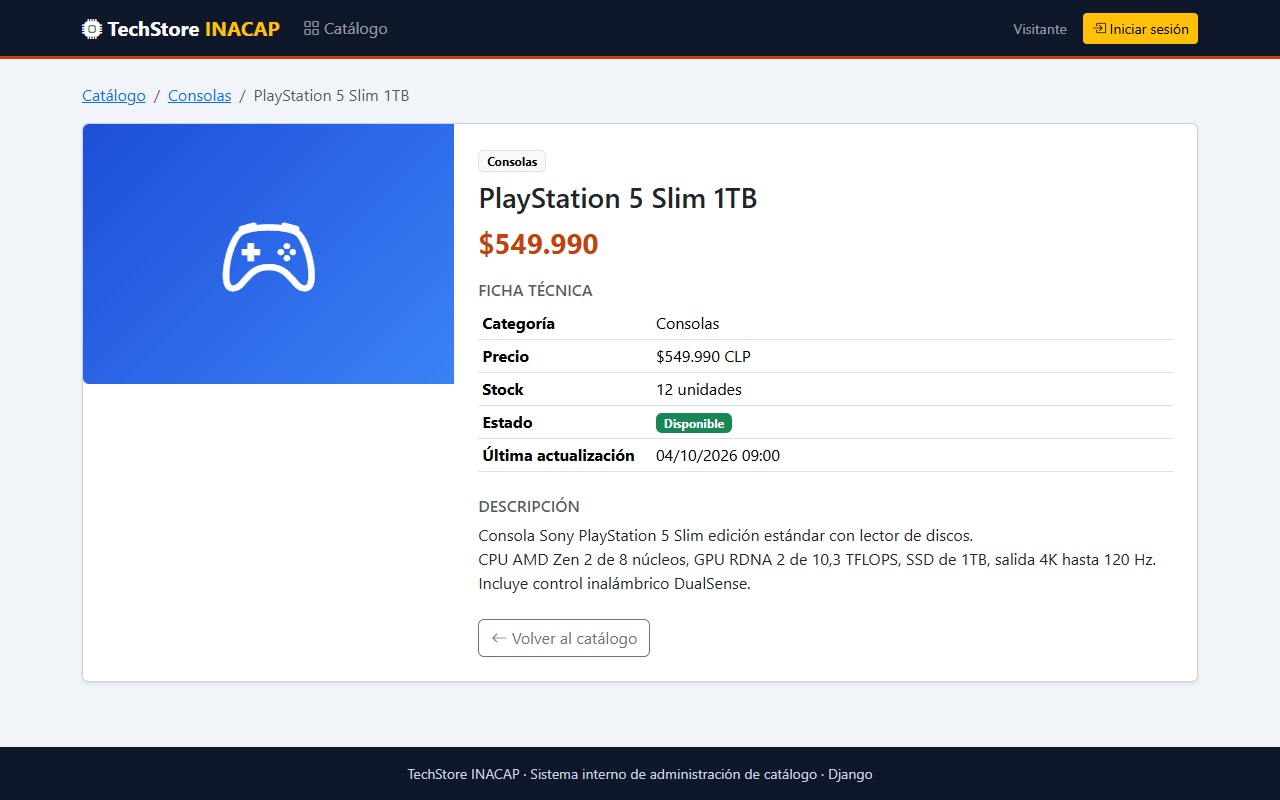
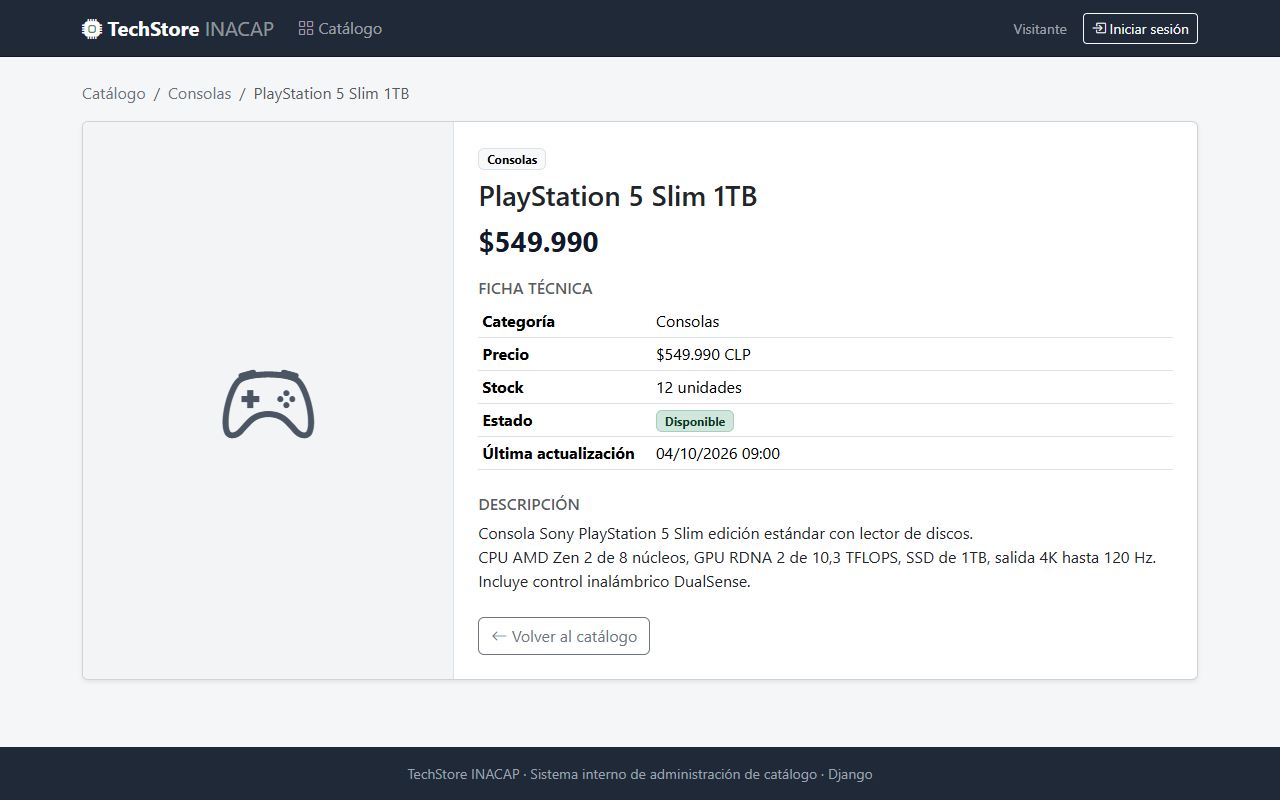
Cambiar la interfaz a una paleta de colores sobria
- Grises y gris carbon en navbar, tarjetas, botones y formularios
- Sin degradados por categoria; iconos sobre fondo gris claro
- Badges de estado y botones de eliminar en tonos suaves
- Capturas de la documentacion actualizadas

diff --git a/catalogo/templates/catalogo/lista.html b/catalogo/templates/catalogo/lista.html
@@ -10,7 +10,7 @@
         <p class="text-muted mb-0">Consolas, computadores, componentes y periféricos</p>
     </div>
     {% if user.is_authenticated %}
-        <a href="{% url 'catalogo:crear' %}" class="btn btn-primary">
+        <a href="{% url 'catalogo:crear' %}" class="btn btn-dark">
             <i class="bi bi-plus-lg"></i> Nuevo producto
         </a>
     {% endif %}
@@ -29,7 +29,7 @@
         </select>
     </div>
     <div class="col-md-2 d-grid">
-        <button type="submit" class="btn btn-outline-primary"><i class="bi bi-search"></i> Filtrar</button>
+        <button type="submit" class="btn btn-outline-secondary"><i class="bi bi-search"></i> Filtrar</button>
     </div>
 </form>
 
@@ -37,32 +37,32 @@
     {% for producto in productos %}
         <div class="col">
             <div class="card h-100 card-producto shadow-sm">
-                <div class="card-icono cat-{{ producto.categoria|lower }}">
+                <div class="card-icono">
                     <i class="bi {{ producto.icono }}"></i>
                 </div>
                 <div class="card-body d-flex flex-column">
                     <div class="d-flex justify-content-between align-items-start mb-2 gap-2">
                         <span class="badge text-bg-light border">{{ producto.get_categoria_display }}</span>
                         {% if producto.estado %}
-                            <span class="badge text-bg-success">Disponible</span>
+                            <span class="badge bg-success-subtle text-success-emphasis border border-success-subtle">Disponible</span>
                         {% else %}
-                            <span class="badge text-bg-danger">Agotado</span>
+                            <span class="badge bg-danger-subtle text-danger-emphasis border border-danger-subtle">Agotado</span>
                         {% endif %}
                     </div>
                     <h2 class="h6 card-title">{{ producto.nombre }}</h2>
                     <p class="card-text small text-muted flex-grow-1">{{ producto.descripcion|truncatechars:90 }}</p>
                     <p class="precio mb-1">${{ producto.precio|clp }}</p>
                     <p class="small text-muted mb-3">Stock: {{ producto.stock }} unidad{{ producto.stock|pluralize:"es" }}</p>
-                    <a href="{{ producto.get_absolute_url }}" class="btn btn-outline-primary btn-sm">
+                    <a href="{{ producto.get_absolute_url }}" class="btn btn-outline-dark btn-sm">
                         <i class="bi bi-info-circle"></i> Ver detalle
                     </a>
                 </div>
                 {% if user.is_authenticated %}
                     <div class="card-footer bg-transparent d-flex gap-2">
-                        <a href="{% url 'catalogo:editar' producto.pk %}" class="btn btn-sm btn-warning flex-fill">
+                        <a href="{% url 'catalogo:editar' producto.pk %}" class="btn btn-sm btn-outline-secondary flex-fill">
                             <i class="bi bi-pencil"></i> Editar
                         </a>
-                        <a href="{% url 'catalogo:eliminar' producto.pk %}" class="btn btn-sm btn-danger flex-fill">
+                        <a href="{% url 'catalogo:eliminar' producto.pk %}" class="btn btn-sm btn-outline-danger flex-fill">
                             <i class="bi bi-trash"></i> Eliminar
                         </a>
                     </div>

diff --git a/catalogo/static/catalogo/css/estilos.css b/catalogo/static/catalogo/css/estilos.css
@@ -1,32 +1,35 @@
-/* Estilos propios de TechStore INACAP */
+/* Estilos propios de TechStore INACAP – paleta sobria en grises */
 
 :root {
-    --ts-oscuro: #0f172a;
-    --ts-acento: #c2410c;
+    --ts-oscuro: #1f2937;   /* gris carbón: navbar, pie y botones principales */
+    --ts-texto: #111827;
+    --ts-suave: #6b7280;
+    --ts-fondo: #f5f6f8;
+    --ts-panel: #f3f4f6;
 }
 
 body {
-    background-color: #f1f5f9;
+    background-color: var(--ts-fondo);
+    color: var(--ts-texto);
 }
 
 .navbar-techstore {
     background-color: var(--ts-oscuro);
-    border-bottom: 3px solid var(--ts-acento);
+    border-bottom: 1px solid #111827;
 }
 
 .footer-techstore {
     background-color: var(--ts-oscuro);
-    color: #cbd5e1;
+    color: #9ca3af;
 }
 
 /* Tarjetas de productos */
 .card-producto {
-    transition: transform .15s ease, box-shadow .15s ease;
+    transition: box-shadow .15s ease;
 }
 
 .card-producto:hover {
-    transform: translateY(-3px);
-    box-shadow: 0 .5rem 1rem rgba(15, 23, 42, .15) !important;
+    box-shadow: 0 .25rem .75rem rgba(17, 24, 39, .12) !important;
 }
 
 .card-icono {
@@ -34,39 +37,57 @@ body {
     align-items: center;
     justify-content: center;
     height: 140px;
-    font-size: 3.5rem;
-    color: #fff;
+    font-size: 3.25rem;
+    color: #4b5563;
+    background-color: var(--ts-panel);
 }
 
 .card-producto .card-icono {
+    border-bottom: 1px solid var(--bs-border-color);
     border-radius: var(--bs-card-inner-border-radius) var(--bs-card-inner-border-radius) 0 0;
 }
 
 .card-icono-grande {
+    height: auto;
     min-height: 260px;
     font-size: 6rem;
+    border-right: 1px solid var(--bs-border-color);
 }
-
-/* Color de fondo según categoría */
-.cat-consolas    { background: linear-gradient(135deg, #1d4ed8, #3b82f6); }
-.cat-notebooks   { background: linear-gradient(135deg, #0f766e, #14b8a6); }
-.cat-escritorio  { background: linear-gradient(135deg, #6d28d9, #8b5cf6); }
-.cat-componentes { background: linear-gradient(135deg, #b45309, #f59e0b); }
-.cat-perifericos { background: linear-gradient(135deg, #be123c, #f43f5e); }
 
 .precio {
     font-weight: 700;
-    color: var(--ts-acento);
+    color: var(--ts-texto);
     font-size: 1.2rem;
+}
+
+.breadcrumb a {
+    color: var(--ts-suave);
+    text-decoration: none;
+}
+
+.breadcrumb a:hover {
+    color: var(--ts-texto);
+    text-decoration: underline;
 }
 
 .descripcion {
     white-space: normal;
 }
 
-/* Campos con error en formularios */
+/* Foco y selección en formularios */
 .form-control:focus,
 .form-select:focus {
-    border-color: var(--ts-acento);
-    box-shadow: 0 0 0 .2rem rgba(194, 65, 12, .2);
+    border-color: var(--ts-suave);
+    box-shadow: 0 0 0 .2rem rgba(107, 114, 128, .2);
+}
+
+.form-check-input:checked {
+    background-color: var(--ts-oscuro);
+    border-color: var(--ts-oscuro);
+}
+
+/* Botón principal en gris carbón */
+.btn-dark {
+    --bs-btn-bg: var(--ts-oscuro);
+    --bs-btn-border-color: var(--ts-oscuro);
 }

diff --git a/catalogo/templates/catalogo/detalle.html b/catalogo/templates/catalogo/detalle.html
@@ -15,7 +15,7 @@
 <div class="card shadow-sm">
     <div class="row g-0">
         <div class="col-md-4 d-flex">
-            <div class="card-icono card-icono-grande cat-{{ producto.categoria|lower }} flex-fill rounded-start">
+            <div class="card-icono card-icono-grande flex-fill rounded-start">
                 <i class="bi {{ producto.icono }}"></i>
             </div>
         </div>
@@ -35,9 +35,9 @@
                             <th scope="row">Estado</th>
                             <td>
                                 {% if producto.estado %}
-                                    <span class="badge text-bg-success">Disponible</span>
+                                    <span class="badge bg-success-subtle text-success-emphasis border border-success-subtle">Disponible</span>
                                 {% else %}
-                                    <span class="badge text-bg-danger">Agotado</span>
+                                    <span class="badge bg-danger-subtle text-danger-emphasis border border-danger-subtle">Agotado</span>
                                 {% endif %}
                             </td>
                         </tr>
@@ -53,10 +53,10 @@
                         <i class="bi bi-arrow-left"></i> Volver al catálogo
                     </a>
                     {% if user.is_authenticated %}
-                        <a href="{% url 'catalogo:editar' producto.pk %}" class="btn btn-warning">
+                        <a href="{% url 'catalogo:editar' producto.pk %}" class="btn btn-outline-secondary">
                             <i class="bi bi-pencil"></i> Editar
                         </a>
-                        <a href="{% url 'catalogo:eliminar' producto.pk %}" class="btn btn-danger">
+                        <a href="{% url 'catalogo:eliminar' producto.pk %}" class="btn btn-outline-danger">
                             <i class="bi bi-trash"></i> Eliminar
                         </a>
                     {% endif %}

diff --git a/catalogo/templates/base.html b/catalogo/templates/base.html
@@ -13,7 +13,7 @@
 <nav class="navbar navbar-expand-lg navbar-dark navbar-techstore">
     <div class="container">
         <a class="navbar-brand fw-bold" href="{% url 'catalogo:lista' %}">
-            <i class="bi bi-cpu-fill"></i> TechStore <span class="text-warning">INACAP</span>
+            <i class="bi bi-cpu-fill"></i> TechStore <span class="fw-normal text-white-50">INACAP</span>
         </a>
         <button class="navbar-toggler" type="button" data-bs-toggle="collapse" data-bs-target="#menu"
                 aria-controls="menu" aria-expanded="false" aria-label="Mostrar menú">
@@ -61,7 +61,7 @@
                         <span class="navbar-text me-3 small">Visitante</span>
                     </li>
                     <li class="nav-item">
-                        <a class="btn btn-warning btn-sm" href="{% url 'login' %}">
+                        <a class="btn btn-outline-light btn-sm" href="{% url 'login' %}">
                             <i class="bi bi-box-arrow-in-right"></i> Iniciar sesión
                         </a>
                     </li>

diff --git a/catalogo/templates/catalogo/confirmar_eliminar.html b/catalogo/templates/catalogo/confirmar_eliminar.html
@@ -6,8 +6,8 @@
 {% block content %}
 <div class="row justify-content-center">
     <div class="col-md-7 col-lg-6">
-        <div class="card border-danger shadow-sm">
-            <div class="card-header text-bg-danger">
+        <div class="card shadow-sm">
+            <div class="card-header bg-white text-danger">
                 <h1 class="h5 mb-0"><i class="bi bi-exclamation-triangle"></i> Confirmar eliminación</h1>
             </div>
             <div class="card-body p-4">

diff --git a/catalogo/templates/catalogo/formulario.html b/catalogo/templates/catalogo/formulario.html
@@ -47,7 +47,7 @@
                     </div>
 
                     <div class="d-flex gap-2 mt-4">
-                        <button type="submit" class="btn btn-primary">
+                        <button type="submit" class="btn btn-dark">
                             <i class="bi bi-check-lg"></i> {{ boton }}
                         </button>
                         <a href="{% if producto %}{{ producto.get_absolute_url }}{% else %}{% url 'catalogo:lista' %}{% endif %}"

diff --git a/catalogo/templates/registration/login.html b/catalogo/templates/registration/login.html
@@ -32,7 +32,7 @@
                     </div>
                     <input type="hidden" name="next" value="{{ next }}">
                     <div class="d-grid">
-                        <button type="submit" class="btn btn-primary">
+                        <button type="submit" class="btn btn-dark">
                             <i class="bi bi-box-arrow-in-right"></i> Ingresar
                         </button>
                     </div>

diff --git a/docs/DOCUMENTACION.md b/docs/DOCUMENTACION.md
@@ -191,12 +191,12 @@ path('logout/', auth_views.LogoutView.as_view(), name='logout'),
 - El botón *Cerrar sesión* es un formulario **POST** con `{% csrf_token %}`, porque desde
   Django 5 el logout ya no acepta GET.
 - `lista.html` presenta los productos en **tarjetas (cards)** dentro de una grilla de Bootstrap;
-  cada tarjeta tiene un color e ícono según la categoría (consola, notebook, PC, etc.).
+  cada tarjeta tiene un ícono según la categoría (consola, notebook, PC, etc.).
 
 ### Paso 11 – Estilos y formato de precios
 
-- `catalogo/static/catalogo/css/estilos.css`: colores corporativos, efecto al pasar el mouse
-  sobre las tarjetas y degradados por categoría.
+- `catalogo/static/catalogo/css/estilos.css`: paleta sobria en grises, sombra suave al pasar el mouse
+  sobre las tarjetas y estilos de foco en los formularios.
 - `catalogo/templatetags/formato.py`: filtro propio `|clp` que muestra los precios
   con formato chileno (`549990` → `$549.990`).
 

diff --git a/README.md b/README.md
@@ -181,7 +181,7 @@ y el modelo está registrado en el panel `/admin/` con filtros, búsqueda y edic
 - La barra de navegación cambia según `user.is_authenticated`:
   - **Anónimo**: muestra "Visitante" y el botón *Iniciar sesión*.
   - **Autenticado**: muestra *Nuevo producto*, *Panel admin* (si es staff), el saludo con el nombre del usuario y *Cerrar sesión*.
-- El catálogo presenta los productos en **tarjetas (cards)** en grilla, con ícono y color según la categoría (consolas, notebooks, PC de escritorio, etc.), badge de estado y precio.
+- El catálogo presenta los productos en **tarjetas (cards)** en grilla, con un ícono según la categoría (consolas, notebooks, PC de escritorio, etc.), badge de estado y precio, en una paleta sobria de grises.
 
 ### 5. Formularios y widgets (25 pts) – `catalogo/forms.py`
 `ProductoForm` es un `ModelForm` con widgets personalizados:
